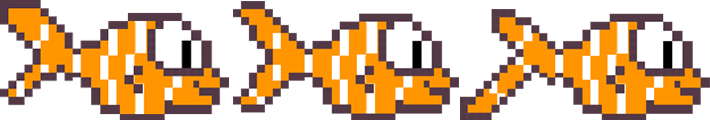
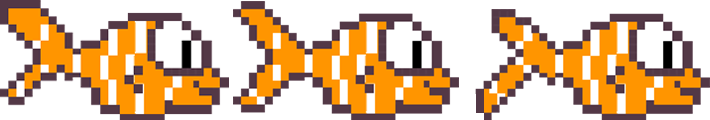
Score

Changed region(s): [[0.6507, 0.8, 0.6817, 1.0]]

diff --git a/core/src/com/erdarkniel/fishyflappy/states/PlayState.java b/core/src/com/erdarkniel/fishyflappy/states/PlayState.java
@@ -2,7 +2,9 @@ package com.erdarkniel.fishyflappy.states;
 
 import com.badlogic.gdx.Gdx;
 import com.badlogic.gdx.audio.Music;
+import com.badlogic.gdx.graphics.Color;
 import com.badlogic.gdx.graphics.Texture;
+import com.badlogic.gdx.graphics.g2d.BitmapFont;
 import com.badlogic.gdx.graphics.g2d.SpriteBatch;
 import com.badlogic.gdx.math.Vector2;
 import com.badlogic.gdx.utils.Array;
@@ -17,9 +19,10 @@ public class PlayState extends State{
     private Fish fish;
     private Texture bg,ground;
     private Vector2 groundPos1,groundPos2;
-    private  Array<Bottle> bottles;
+    private Array<Bottle> bottles;
     //Puntuacion
-    int score = 0;
+    private BitmapFont puntuacion;
+    int score = 0,totalscore=0;
     //Musica del juego
     private Music music;
     public PlayState(GameStateManager gameStateManager) {
@@ -27,6 +30,9 @@ public class PlayState extends State{
         fish = new Fish(50,320);
         camera.setToOrtho(false, FishyFlappy.WIDTH/2, FishyFlappy.HEIGHT/2);
         bg = new Texture("bg.png");
+        puntuacion = new BitmapFont();
+        puntuacion.setColor(Color.BLACK);
+        puntuacion.getData().setScale(2);
         ground = new Texture("ground.png");
         groundPos1 = new Vector2(camera.position.x - camera.viewportWidth/2,GROUND_Y_OFFSET);
         groundPos2 = new Vector2((camera.position.x - camera.viewportWidth/2)+ground.getWidth(),GROUND_Y_OFFSET);
@@ -55,21 +61,21 @@ public class PlayState extends State{
             if (camera.position.x - (camera.viewportWidth/2) > bottle.getPosTopBottle().x + bottle.getTopBottle().getWidth()){
                 bottle.reposition(bottle.getPosTopBottle().x + ((Bottle.BOTTLE_WIDTH + bottle_SPACING) * bottle_COUNT));
             }
-            /*if (camera.position.x < bottle.getPosTopbottle().x){
+            if (bottle.scoreCollides(fish.getBounds())){
                 score++;
-                Gdx.app.log("Score", String.valueOf(score));
-            }*/
+                if (score%21==0) {
+                    Gdx.app.log("Score", String.valueOf(score/21));
+                    totalscore++;
+                }
+            }
             if (bottle.collides(fish.getBounds())){
                 gsm.set(new MenuState(gsm));//Devuelve al jugador al MenuState
-                Gdx.app.log("Total Score", String.valueOf(score));
+                Gdx.app.log("Total Score", String.valueOf(totalscore));
             }
-            /*if (bottle.scoreCollides(bird.getBounds())){
-                score++;
-                Gdx.app.log("Score", String.valueOf(score));
-            }*/
         }
         if (fish.getPosition().y <= ground.getHeight()+GROUND_Y_OFFSET){
             gsm.set(new MenuState(gsm));
+            Gdx.app.log("Total Score", String.valueOf(totalscore));
         }
         camera.update();
     }
@@ -79,10 +85,12 @@ public class PlayState extends State{
         spriteBatch.setProjectionMatrix(camera.combined);
         spriteBatch.begin();
         spriteBatch.draw(bg,camera.position.x-(camera.viewportWidth/2),camera.position.y-(camera.viewportHeight/2));
-        spriteBatch.draw(fish.getBird(), fish.getPosition().x, fish.getPosition().y);
+        puntuacion.draw(spriteBatch, String.valueOf(totalscore),camera.position.x-(camera.viewportWidth/bg.getWidth()), camera.position.y+(camera.viewportHeight/2));
+        spriteBatch.draw(fish.getFish(), fish.getPosition().x, fish.getPosition().y);
         for (Bottle bottle : bottles){
             spriteBatch.draw(bottle.getTopBottle(),bottle.getPosTopBottle().x,bottle.getPosTopBottle().y);
             spriteBatch.draw(bottle.getBottomBottle(),bottle.getposBotBottle().x,bottle.getposBotBottle().y);
+            spriteBatch.draw(bottle.getSquare(),bottle.getPosSquare().x,bottle.getPosSquare().y);
         }
         spriteBatch.draw(ground,groundPos1.x,groundPos1.y);
         spriteBatch.draw(ground,groundPos2.x,groundPos2.y);

diff --git a/core/src/com/erdarkniel/fishyflappy/sprites/Bottle.java b/core/src/com/erdarkniel/fishyflappy/sprites/Bottle.java
@@ -3,6 +3,7 @@ package com.erdarkniel.fishyflappy.sprites;
 import com.badlogic.gdx.graphics.Texture;
 import com.badlogic.gdx.math.Rectangle;
 import com.badlogic.gdx.math.Vector2;
+import com.erdarkniel.fishyflappy.states.PlayState;
 
 import java.util.Random;
 
@@ -11,21 +12,23 @@ public class Bottle {
     private static final int FLUCTUATION = 130;
     private static final int BOTTLE_GAP = 100;
     private static final int LOWEST_OPENING = 120;
-    private Texture topBottle,bottomBottle;
-    private Vector2 posTopBottle,posBotBottle;
+    private Texture topBottle,bottomBottle,square;
+    private Vector2 posTopBottle,posBotBottle,posSquare;
     private Random rand;
-    private Rectangle boundsTop;
-    private Rectangle boundsBot;
+    private Rectangle boundsTop,boundsBot,boundsSquare;
     public Bottle(float x){
         topBottle = new Texture("topbottle.png");
         bottomBottle = new Texture("bottombottle.png");
-        //posicion tuberia
+        square = new Texture("square.png");
+        //posicion boyella y puntuacion
         rand = new Random();
         posTopBottle = new Vector2(x,rand.nextInt(FLUCTUATION)+BOTTLE_GAP+LOWEST_OPENING);
         posBotBottle = new Vector2(x,posTopBottle.y - BOTTLE_GAP - bottomBottle.getHeight());
+        posSquare = new Vector2(x+(topBottle.getWidth()/2),posTopBottle.y-square.getHeight());
         //colision
         boundsTop = new Rectangle(posTopBottle.x,posTopBottle.y,topBottle.getWidth()-10,topBottle.getHeight());
         boundsBot = new Rectangle(posBotBottle.x,posBotBottle.y,bottomBottle.getWidth()-10,bottomBottle.getHeight());
+        boundsSquare = new Rectangle(posSquare.x,posSquare.y,square.getWidth(),square.getHeight());
     }
     public void reposition(float x){
         posTopBottle.set(x,rand.nextInt(FLUCTUATION)+BOTTLE_GAP+LOWEST_OPENING);
@@ -33,10 +36,25 @@ public class Bottle {
 
         boundsTop.setPosition(posTopBottle.x,posTopBottle.y);
         boundsBot.setPosition(posBotBottle.x,posBotBottle.y);
+        //Puntuacion
+        posSquare.set(x+(topBottle.getWidth()/2),posTopBottle.y - square.getHeight());
+        boundsSquare.setPosition(posSquare.x,posSquare.y);
     }
     public boolean collides(Rectangle player){
         return player.overlaps(boundsTop) || player.overlaps(boundsBot);
     }
+    public boolean scoreCollides(Rectangle player){
+        return player.overlaps(boundsSquare);
+    }
+
+    public Texture getSquare() {
+        return square;
+    }
+
+    public Vector2 getPosSquare() {
+        return posSquare;
+    }
+
     public Texture getTopBottle() {
         return topBottle;
     }

diff --git a/core/src/com/erdarkniel/fishyflappy/sprites/Fish.java b/core/src/com/erdarkniel/fishyflappy/sprites/Fish.java
@@ -13,28 +13,26 @@ public class Fish {
     private static final int GRAVITY = -20;
     private Vector3 position;
     private Vector3 velocity;
-    private Texture bird;
+    private Texture fish;
     private Rectangle bounds;
-    private Animation birdAnimation;
+    private Animation fishAnimation;
     private Sound flap;
     public Fish(int x, int y) {
         position = new Vector3(x,y,0);
         velocity = new Vector3(0,0,0);
         Pixmap pixmapG = new Pixmap(Gdx.files.internal("fishanimation.png"));
-        Pixmap pixmapP = new Pixmap(126, 24, pixmapG.getFormat());
+        Pixmap pixmapP = new Pixmap(102, 24, pixmapG.getFormat());
         pixmapP.drawPixmap(pixmapG,
                 0, 0, pixmapG.getWidth(), pixmapG.getHeight(),
                 0, 0, pixmapP.getWidth(), pixmapP.getHeight()
         );
-        bird = new Texture(pixmapP);
-        pixmapG.dispose();
-        pixmapP.dispose();
-        birdAnimation = new Animation(new TextureRegion(bird),3,0.5f);
+        fish = new Texture(pixmapP);
+        fishAnimation = new Animation(new TextureRegion(fish),3,0.5f);
         flap = Gdx.audio.newSound(Gdx.files.internal("sfx_wing.ogg"));
-        bounds = new Rectangle(x,y,bird.getWidth()/3,bird.getHeight());
+        bounds = new Rectangle(x,y,fish.getWidth()/3,fish.getHeight());
     }
     public void update(float dt){
-        birdAnimation.update(dt);
+        fishAnimation.update(dt);
         if (position.y > 0){
             velocity.add(0,GRAVITY,0);
         }
@@ -48,13 +46,13 @@ public class Fish {
     }
     public Rectangle getBounds(){return bounds;}
     public Vector3 getPosition() {return position;}
-    public TextureRegion getBird() {return birdAnimation.getFrame();}
+    public TextureRegion getFish() {return fishAnimation.getFrame();}
     public void jump(){
         velocity.y = 250;
         flap.play(0.4f);
     }
     public void dispose(){
-        bird.dispose();
+        fish.dispose();
         flap.dispose();
     }
 }

diff --git a/core/src/com/erdarkniel/fishyflappy/states/SplashScreen.java b/core/src/com/erdarkniel/fishyflappy/states/SplashScreen.java
@@ -2,18 +2,24 @@ package com.erdarkniel.fishyflappy.states;
 import com.badlogic.gdx.graphics.g2d.SpriteBatch;
 
 public class SplashScreen extends State{
+    private float lifeTime;
+    private Long delay = 2L; //1000 milliseconds per second, so 2 seconds.
     public SplashScreen(GameStateManager gameStateManager) {
         super(gameStateManager);
     }
-
     @Override
     public void handleInput() {
-
     }
-
+    public void create() {
+        lifeTime = System.currentTimeMillis();
+    }
     @Override
     public void update(float dt) {
         handleInput();
+        lifeTime += dt;
+        if (lifeTime > delay) {
+            gsm.set(new MenuState(gsm));
+        }
     }
     @Override
     public void render(SpriteBatch spriteBatch) {

diff --git a/core/src/com/erdarkniel/fishyflappy/FishyFlappy.java b/core/src/com/erdarkniel/fishyflappy/FishyFlappy.java
@@ -6,6 +6,7 @@ import com.badlogic.gdx.graphics.g2d.SpriteBatch;
 import com.badlogic.gdx.utils.ScreenUtils;
 import com.erdarkniel.fishyflappy.states.GameStateManager;
 import com.erdarkniel.fishyflappy.states.MenuState;
+import com.erdarkniel.fishyflappy.states.SplashScreen;
 
 public class FishyFlappy extends ApplicationAdapter {
 	//TAMALLO PANTALLA
@@ -22,7 +23,7 @@ public class FishyFlappy extends ApplicationAdapter {
 		batch = new SpriteBatch();
 		gsm = new GameStateManager();
 		ScreenUtils.clear(0, 0, 1, 1);
-		gsm.push(new MenuState(gsm));
+		gsm.push(new SplashScreen(gsm));
 	}
 	@Override
 	public void render () {
